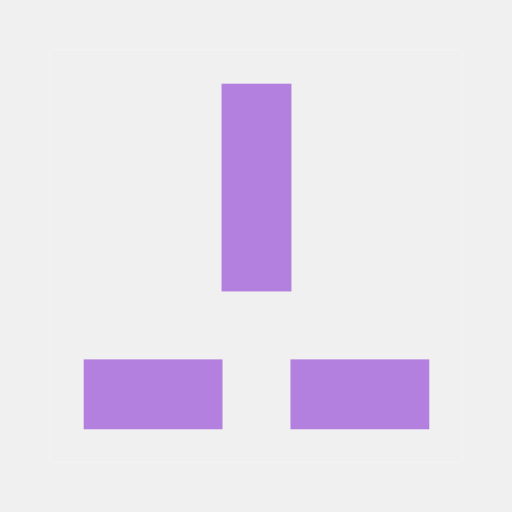
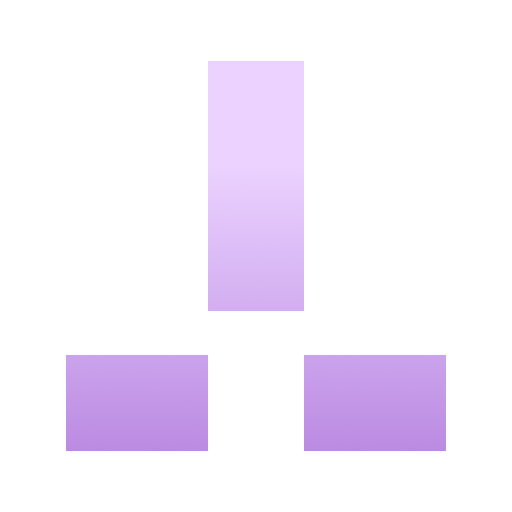
Small Branding Updates

Changed region(s): [[0.4062, 0.0938, 0.5938, 0.625], [0.5625, 0.6875, 0.875, 0.9062], [0.125, 0.6875, 0.4375, 0.9062]]

diff --git a/client/packages/lowcoder/src/assets/images/index.tsx b/client/packages/lowcoder/src/assets/images/index.tsx
@@ -1,5 +1,5 @@
 //window.matchMedia && window.matchMedia("(prefers-color-scheme: dark)").matches
-import { ReactComponent as LogoIcon } from "./logo-with-name-home.svg";
+import { ReactComponent as LogoIcon } from "./Lowcoder-Logo.svg";
 import { ReactComponent as LogoWithNameIcon } from "./logo-with-name-home.svg";
 import { ReactComponent as LogoHomeIcon } from "./logo-with-name-home.svg";
 
